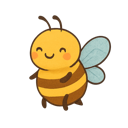
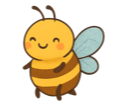
Honey baybee!

Changed region(s): [[0.1826, 0.0278, 0.913, 0.9444], [0.4435, 0.3333, 0.5478, 0.4167], [0.5478, 0.4167, 0.5739, 0.4444]]

diff --git a/components/correction-display.tsx b/components/correction-display.tsx
@@ -1,6 +1,6 @@
 'use client';
 
-import { useState, useEffect, useRef } from 'react';
+import { useState, useEffect, useRef, useCallback } from 'react';
 import Image from 'next/image';
 import type { StreamingTutorResponse } from '@/lib/types';
 
@@ -14,6 +14,30 @@ type PartInfo = {
   translation?: string;
   notes?: string;
 };
+
+interface HintConfirmPopupProps {
+  onConfirm: () => void;
+  isSpending: boolean;
+}
+
+const HintConfirmButton = ({ onConfirm, isSpending }: HintConfirmPopupProps) => (
+  <button
+    onClick={onConfirm}
+    disabled={isSpending}
+    className={`mt-4 flex items-center gap-2 px-4 py-2 bg-white/90 hover:bg-white text-amber-900 font-semibold rounded-full transition-all shadow-sm ${
+      isSpending ? 'animate-pulse scale-95' : 'hover:scale-105'
+    }`}
+  >
+    <Image
+      src="/coin.png"
+      alt="Honey"
+      width={20}
+      height={20}
+      className={isSpending ? 'animate-spin' : ''}
+    />
+    {isSpending ? 'Getting hint...' : 'Spend 1 honey?'}
+  </button>
+);
 
 interface SentenceWithPartsProps {
   sentence: string;
@@ -67,7 +91,62 @@ const parseSentenceWithParts = (sentence: string, parts?: (Partial<PartInfo> | u
 
 const SentenceWithParts = ({ sentence, parts }: SentenceWithPartsProps) => {
   const [selectedPart, setSelectedPart] = useState<PartInfo | null>(null);
+  const [pendingPart, setPendingPart] = useState<PartInfo | null>(null);
+  const [purchasedHints, setPurchasedHints] = useState<Set<string>>(new Set());
+  const [isSpending, setIsSpending] = useState(false);
+  const [error, setError] = useState<string | null>(null);
   const segments = parseSentenceWithParts(sentence, parts);
+
+  const handlePartClick = (part: PartInfo) => {
+    // If already selected, just toggle off
+    if (selectedPart === part) {
+      setSelectedPart(null);
+      return;
+    }
+
+    // If already purchased, just show it
+    if (purchasedHints.has(part.text)) {
+      setSelectedPart(part);
+      setPendingPart(null);
+      return;
+    }
+
+    // Show confirmation popup
+    setPendingPart(part);
+    setSelectedPart(null);
+  };
+
+  const handleConfirmPurchase = useCallback(async () => {
+    if (!pendingPart) return;
+
+    setIsSpending(true);
+    setError(null);
+
+    try {
+      const response = await fetch('/api/user/honey/spend', {
+        method: 'POST',
+        headers: { 'Content-Type': 'application/json' },
+        body: JSON.stringify({ amount: 1 }),
+      });
+
+      if (response.ok) {
+        setPurchasedHints(prev => new Set(prev).add(pendingPart.text));
+        setSelectedPart(pendingPart);
+        setPendingPart(null);
+        // Notify HoneyBalance to refresh
+        window.dispatchEvent(new CustomEvent('honey-updated'));
+      } else if (response.status === 402) {
+        setError('Not enough honey!');
+        setTimeout(() => setError(null), 2000);
+      }
+    } catch {
+      setError('Failed to get hint');
+      setTimeout(() => setError(null), 2000);
+    } finally {
+      setIsSpending(false);
+    }
+  }, [pendingPart]);
+
 
   return (
     <div>
@@ -76,10 +155,11 @@ const SentenceWithParts = ({ sentence, parts }: SentenceWithPartsProps) => {
           segment.part ? (
             <button
               key={idx}
-              onClick={() => setSelectedPart(selectedPart === segment.part ? null : segment.part!)}
+              onClick={() => handlePartClick(segment.part!)}
+              disabled={isSpending}
               className={`underline decoration-amber-800 decoration-2 underline-offset-4 hover:bg-amber-300/50 rounded px-0.5 transition-colors ${
-                selectedPart === segment.part ? 'bg-amber-300/70' : ''
-              }`}
+                selectedPart === segment.part || pendingPart === segment.part ? 'bg-amber-300/70' : ''
+              } ${purchasedHints.has(segment.part.text) ? 'decoration-green-700' : ''} ${isSpending ? 'opacity-50' : ''}`}
             >
               {segment.text}
             </button>
@@ -88,15 +168,37 @@ const SentenceWithParts = ({ sentence, parts }: SentenceWithPartsProps) => {
           )
         )}
       </p>
+      {error && (
+        <div className="mt-3 p-2 bg-red-100 text-red-700 rounded-lg text-sm text-center">
+          {error}
+        </div>
+      )}
+      {pendingPart && (
+        <HintConfirmButton
+          onConfirm={handleConfirmPurchase}
+          isSpending={isSpending}
+        />
+      )}
       {selectedPart && (
-        <div className="mt-4 p-3 bg-amber-950/20 rounded-xl">
-          <p className="font-bold text-amber-950">{selectedPart.text}</p>
-          {selectedPart.translation && (
-            <p className="text-amber-950 mt-1 font-medium">→ {selectedPart.translation}</p>
-          )}
-          {selectedPart.notes && (
-            <p className="text-amber-900 mt-2 text-sm">{selectedPart.notes}</p>
-          )}
+        <div className="mt-4 p-3 bg-white/90 rounded-xl shadow-sm animate-in fade-in slide-in-from-top-2 duration-300">
+          <div className="flex items-start justify-between gap-3">
+            <div className="flex-1">
+              <p className="font-bold text-amber-950">{selectedPart.text}</p>
+              {selectedPart.translation && (
+                <p className="text-amber-900 mt-1 font-medium">→ {selectedPart.translation}</p>
+              )}
+              {selectedPart.notes && (
+                <p className="text-amber-800 mt-2 text-sm">{selectedPart.notes}</p>
+              )}
+            </div>
+            <Image
+              src="/coin.png"
+              alt="Purchased hint"
+              width={24}
+              height={24}
+              className="flex-shrink-0 opacity-60"
+            />
+          </div>
         </div>
       )}
     </div>
@@ -130,7 +232,7 @@ export function CorrectionDisplay({ correction, isLatest = false }: CorrectionDi
       {correction.chatMessage && (
         <div className="text-center">
           <div className="inline-flex items-center gap-3 bg-white/80 backdrop-blur-sm rounded-full px-5 py-3 shadow-sm">
-            <Image src="/buzz-32.png" alt="Buzz" width={32} height={32} />
+            <Image src="/buzz-64.png" alt="Buzz" width={40} height={40} />
             <p className="text-amber-900 font-medium">{correction.chatMessage}</p>
           </div>
         </div>

diff --git a/components/chat.tsx b/components/chat.tsx
@@ -182,10 +182,10 @@ export function Chat({ language, onLanguageChange }: ChatProps) {
       {/* Main content area */}
       <div className={`flex flex-col flex-1 w-full sm:max-w-4xl sm:mx-auto overflow-hidden ${messages.length > 0 ? 'pl-7 sm:pl-0' : ''}`}>
         {/* Header */}
-        <div className="flex-shrink-0 bg-white/80 backdrop-blur-sm px-3 py-2 sm:p-4">
+        <div className="flex-shrink-0 bg-white/80 backdrop-blur-sm px-3 py-2 sm:p-4 relative z-20">
           <div className="flex items-center justify-between gap-2">
             <div className="flex items-center gap-2 sm:gap-3 min-w-0">
-              <Image src="/buzz-32.png" alt="Buzz" width={32} height={32} className="flex-shrink-0" />
+              <Image src="/buzz-128.png" alt="Buzz" width={40} height={40} className="flex-shrink-0 sm:w-20 sm:h-20" />
               <div className="min-w-0">
                 <h1 className="text-lg sm:text-2xl font-bold text-amber-900 truncate">Buzzling</h1>
                 <p className="text-xs sm:text-sm text-amber-700 truncate">Learning {language}</p>
@@ -214,7 +214,7 @@ export function Chat({ language, onLanguageChange }: ChatProps) {
           <div className="min-h-full flex items-center justify-center snap-start p-4">
             <div className="text-center">
               <div className="relative inline-block mb-4">
-                <Image src="/buzz-128.png" alt="Buzz" width={128} height={128} className="mx-auto" />
+                <Image src="/buzz-192.png" alt="Buzz" width={160} height={160} className="mx-auto" />
                 <Image
                   src={language === 'French' ? '/bonjour.png' : '/hello.png'}
                   alt={language === 'French' ? 'Bonjour' : 'Hello'}
@@ -277,8 +277,8 @@ export function Chat({ language, onLanguageChange }: ChatProps) {
         {isLoading && !object && (
           <div className="min-h-full snap-start flex items-center justify-center p-4">
             <div className="text-center">
-              <div className="animate-bounce mb-4">
-                <Image src="/buzz-64.png" alt="Buzz thinking" width={64} height={64} />
+              <div className="animate-figure-8 mb-4">
+                <Image src="/buzz-128.png" alt="Buzz thinking" width={80} height={80} />
               </div>
               <p className="text-amber-600 italic">Buzzing away...</p>
             </div>

diff --git a/components/honey-balance.tsx b/components/honey-balance.tsx
@@ -1,6 +1,6 @@
 'use client';
 
-import { useEffect, useState } from 'react';
+import { useEffect, useState, useCallback } from 'react';
 import Image from 'next/image';
 
 interface HoneyBalanceProps {
@@ -10,28 +10,34 @@ interface HoneyBalanceProps {
 /**
  * Displays the user's honey balance with a honeydrop icon.
  * Fetches the balance from the API and updates on mount.
+ * Listens for 'honey-updated' custom events to refresh the balance.
  */
 export function HoneyBalance({ className = '' }: HoneyBalanceProps) {
   const [honey, setHoney] = useState<number | null>(null);
   const [isLoading, setIsLoading] = useState(true);
 
-  useEffect(() => {
-    const fetchHoney = async () => {
-      try {
-        const response = await fetch('/api/user/honey');
-        if (response.ok) {
-          const data = await response.json();
-          setHoney(data.honey);
-        }
-      } catch (error) {
-        console.error('Failed to fetch honey balance:', error);
-      } finally {
-        setIsLoading(false);
+  const fetchHoney = useCallback(async () => {
+    try {
+      const response = await fetch('/api/user/honey');
+      if (response.ok) {
+        const data = await response.json();
+        setHoney(data.honey);
       }
-    };
-
-    fetchHoney();
+    } catch (error) {
+      console.error('Failed to fetch honey balance:', error);
+    } finally {
+      setIsLoading(false);
+    }
   }, []);
+
+  useEffect(() => {
+    fetchHoney();
+
+    // Listen for honey updates from other components
+    const handleHoneyUpdate = () => fetchHoney();
+    window.addEventListener('honey-updated', handleHoneyUpdate);
+    return () => window.removeEventListener('honey-updated', handleHoneyUpdate);
+  }, [fetchHoney]);
 
   if (isLoading || honey === null) {
     return null;
@@ -40,7 +46,7 @@ export function HoneyBalance({ className = '' }: HoneyBalanceProps) {
   return (
     <div className={`flex items-center gap-1.5 ${className}`}>
       <Image
-        src="/honeydrop.png"
+        src="/coin.png"
         alt="Honey"
         width={20}
         height={20}

diff --git a/app/api/user/honey/spend/route.ts b/app/api/user/honey/spend/route.ts
@@ -1,0 +1,43 @@
+import { auth } from '@/auth';
+import { prisma } from '@/lib/prisma';
+
+/**
+ * Spends honey from the user's balance.
+ * Returns the new balance or an error if insufficient funds.
+ */
+export async function POST(request: Request) {
+  const session = await auth();
+  const userId = session?.user?.id;
+
+  if (!userId) {
+    return Response.json({ error: 'Unauthorized' }, { status: 401 });
+  }
+
+  const body = await request.json();
+  const amount = body.amount ?? 1;
+
+  if (amount < 1) {
+    return Response.json({ error: 'Invalid amount' }, { status: 400 });
+  }
+
+  const user = await prisma.user.findUnique({
+    where: { id: userId },
+    select: { honey: true },
+  });
+
+  if (!user) {
+    return Response.json({ error: 'User not found' }, { status: 404 });
+  }
+
+  if (user.honey < amount) {
+    return Response.json({ error: 'Insufficient honey', honey: user.honey }, { status: 402 });
+  }
+
+  const updated = await prisma.user.update({
+    where: { id: userId },
+    data: { honey: { decrement: amount } },
+    select: { honey: true },
+  });
+
+  return Response.json({ honey: updated.honey });
+}

diff --git a/app/auth/signin/page.tsx b/app/auth/signin/page.tsx
@@ -27,7 +27,7 @@ export default function SignInPage() {
     <div className="min-h-[100dvh] flex items-center justify-center bg-gradient-to-b from-amber-50/50 to-white p-4">
       <div className="max-w-md w-full p-6 sm:p-8 bg-white/80 backdrop-blur-sm rounded-3xl">
         <div className="text-center mb-6">
-          <Image src="/buzz-64.png" alt="Buzz" width={64} height={64} className="mx-auto mb-3" />
+          <Image src="/buzz.png" alt="Buzz" width={192} height={192} className="mx-auto mb-3" />
           <h1 className="text-2xl font-bold text-amber-900">Buzzling</h1>
           <p className="text-amber-800 mt-1">
             Join the hive and start learning!

diff --git a/prisma/seed.ts b/prisma/seed.ts
@@ -1,0 +1,29 @@
+import { prisma } from '../lib/prisma';
+
+/**
+ * Seeds the database with initial data for development.
+ */
+async function main() {
+  // Create dev user that matches the dev credentials provider
+  const devUser = await prisma.user.upsert({
+    where: { id: 'dev-user' },
+    update: {},
+    create: {
+      id: 'dev-user',
+      email: 'dev@localhost',
+      name: 'Dev User',
+      honey: 3,
+    },
+  });
+
+  console.log('Seeded dev user:', devUser);
+}
+
+main()
+  .catch((e) => {
+    console.error(e);
+    process.exit(1);
+  })
+  .finally(async () => {
+    await prisma.$disconnect();
+  });

diff --git a/app/globals.css b/app/globals.css
@@ -147,3 +147,22 @@ body {
 .animate-bounce-gentle {
   animation: bounce-gentle 1.5s ease-in-out infinite;
 }
+
+/* Figure-8 / infinity flight path for buzzing bee */
+@keyframes figure-8-path {
+  0% {
+    offset-distance: 0%;
+  }
+  100% {
+    offset-distance: 100%;
+  }
+}
+
+.animate-figure-8 {
+  offset-path: path('M 0,0 C 20,-15 40,-15 40,0 C 40,15 20,15 0,0 C -20,-15 -40,-15 -40,0 C -40,15 -20,15 0,0');
+  offset-anchor: center;
+  offset-rotate: auto 90deg;
+  animation: figure-8-path 2.5s ease-in-out infinite;
+  position: relative;
+  left: 40px;
+}
